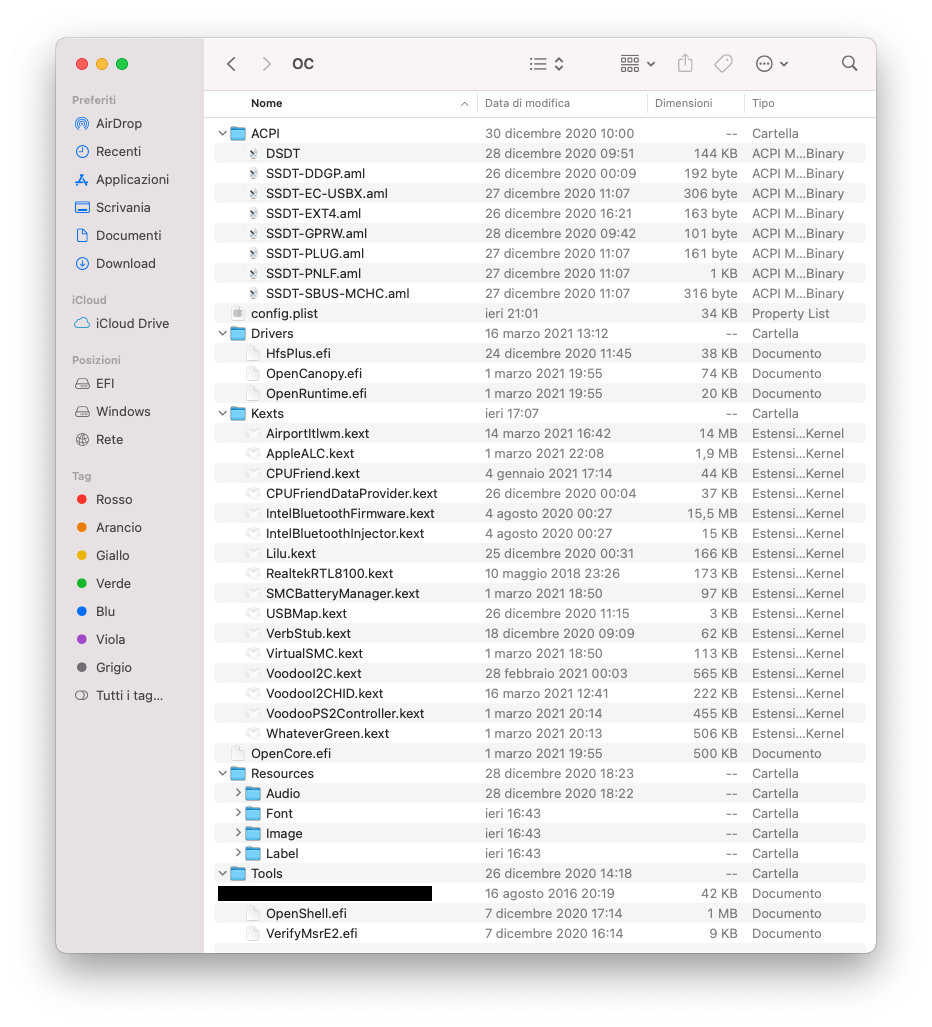
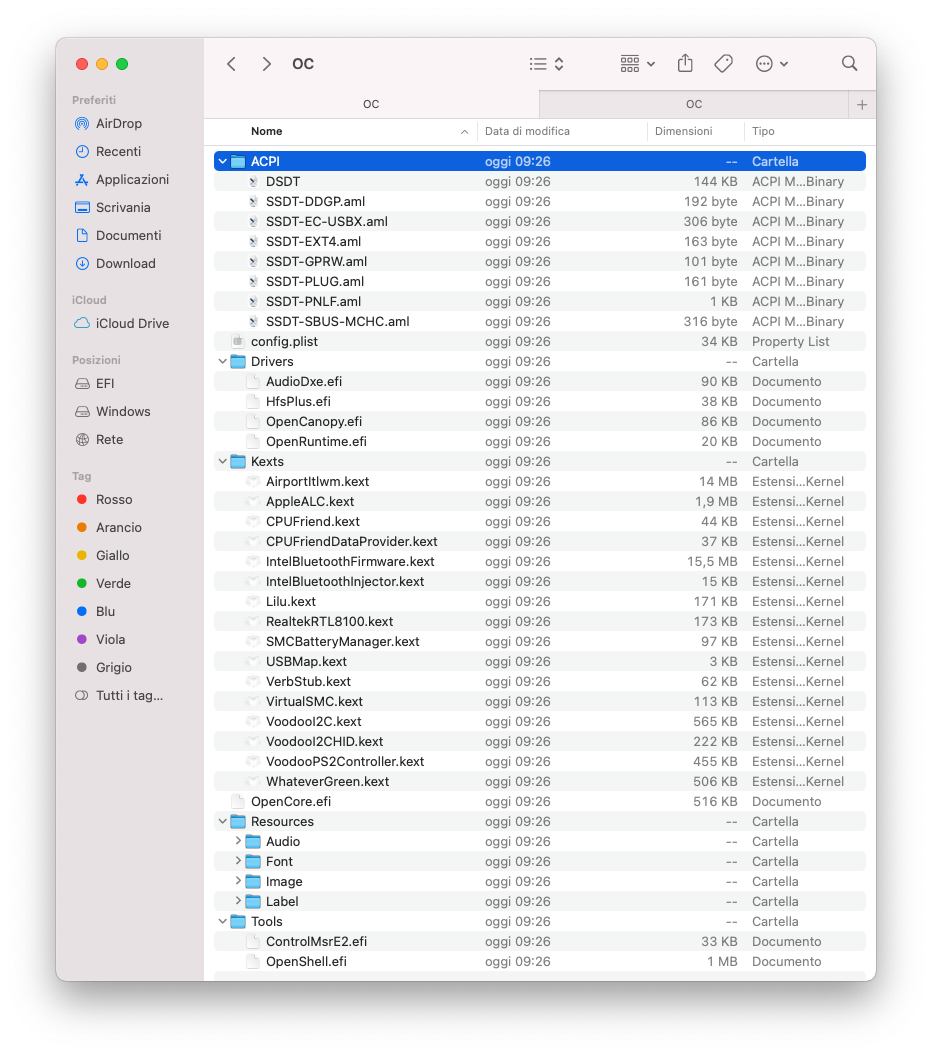
Fixes and update to OpenCore 0.6.8

diff --git a/README.md b/README.md
@@ -1,7 +1,7 @@
 # Dell Inspiron 5767 Hackintosh (OpenCore)
 macOS on Dell Inspiron 5767 (i7-7500u)
 
-![OpenCore Version](https://img.shields.io/badge/opencore-v0.6.7-blue)
+![OpenCore Version](https://img.shields.io/badge/opencore-v0.6.8-blue)
 
 ![Screenshot 1](../master/Pictures/neofetch.png?raw=true)
 
@@ -66,8 +66,6 @@ Just follow official OpenCore guide here: [Creating the USB](https://dortania.gi
 6. Open System Preferences and disable PowerNap and wake on ethernet under *"Energy Saving"*
 
 7. Run script *Audio/ComboJack_Installer/install.sh* to fix 3.5mm jack output and reboot. When you will connect a dialog asking you to select what you connected should show up
-
-8. Copy *Audio/ComboJack_installer/VerbStub.kext* to your HDD *EFI/OC/Kexts* folder
 
 ## Table of contents
 ### ACPI
